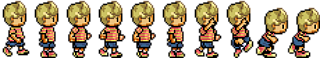
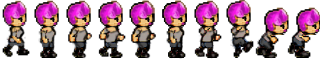
Sprites and animation

diff --git a/lib/akiba.js b/lib/akiba.js
@@ -1,31 +1,46 @@
 akiba = {
   animation: {
-    eight_way_std: {
-      makeList: function() {
-        return {
-          still:     { speed: 1, frames: [0]     },
-          right:     { speed: 3, frames: [1, 11] },
-          rightDown: { speed: 3, frames: [2, 12] },
-          down:      { speed: 3, frames: [3, 13] },
-          downLeft:  { speed: 3, frames: [4, 14] },
-          left:      { speed: 3, frames: [5, 15] },
-          leftUp:    { speed: 3, frames: [6, 16] },
-          up:        { speed: 3, frames: [7, 17] },
-          upRight:   { speed: 3, frames: [8, 18] }
-        }
+    animation_sets: {
+      eight_way_std: {
+        makeList: function() {
+          return {
+            still:     { speed: 1, frames: [0]     },
+            right:     { speed: 3, frames: [1, 11] },
+            rightDown: { speed: 3, frames: [2, 12] },
+            down:      { speed: 3, frames: [3, 13] },
+            downLeft:  { speed: 3, frames: [4, 14] },
+            left:      { speed: 3, frames: [5, 15] },
+            leftUp:    { speed: 3, frames: [6, 16] },
+            up:        { speed: 3, frames: [7, 17] },
+            upRight:   { speed: 3, frames: [8, 18] }
+          }
+        },
+        startIndex: 'still',
+        adjustToVelocity: true
       },
-      startIndex: 'still'
+
+      static_animation: {
+        makeList: function() {
+          return {
+            still:     { speed: 8, frames: [0,1] }
+          }
+        },
+        startIndex: 'still',
+        adjustToVelocity: false
+      }
     },
 
     makeAnimationList: function(obj, style, startIndex) {
-      obj.animList  = this[style].makeList();
-      obj.animIndex = startIndex || this[style].startIndex;
+      var adjustToVelocity = this.animation_sets[style].adjustToVelocity;
+      obj.animList  = this.animation_sets[style].makeList();
+      obj.animIndex = startIndex || this.animation_sets[style].startIndex;
 
       obj.updateAnimation = function() {
-        this.adjustAnimationToVelocity();
+        adjustToVelocity && this.adjustAnimationToVelocity();
 
-        if (frameCount % this.animList[this.animIndex].speed == 0)
-          this.frame = help.decideFrame(frameCount, this.animList[this.animIndex]);
+        if (the_game.frameCount % this.animList[this.animIndex].speed == 0) {
+          this.frame = help.decideFrame(the_game.frameCount, this.animList[this.animIndex]);
+        }
       }
 
       obj.adjustAnimationToVelocity = function() {

diff --git a/lib/game.js b/lib/game.js
@@ -1,5 +1,5 @@
 var maingame;
-var map, foe, yellow_dot, frameCount;
+var map, foe, yellow_dot;
 
 KEY_W = 87;
 KEY_A = 65;
@@ -37,6 +37,7 @@ function getImageResources(){
       ['player_sprite',        'images/walk.png'],
       ['map_spritesheet',      'images/map_pieces.png'],
       ['enemy_sprite',         'images/enemy_sprite.png'],
+      ['enemy_sprite1',        'images/enemy_sprite1.png'],
       ['enemy_dot',            'images/enemy_dot.png'],
       ['block_sprite',         'images/block_sprite.png'],
       ['background_tilesheet', 'images/bg1.png']
@@ -93,9 +94,9 @@ function getTileResources(){
       gapy:    0
     },
     {
-      id:      'enemy_tiles',  // Set a unique ID for future reference
-      image:   'enemy_sprite', // Use the 'player_sprite' image, as loaded above
-      tileh:   32,
+      id:      'enemy_1_set',  // Set a unique ID for future reference
+      image:   'enemy_sprite1', // Use the 'player_sprite' image, as loaded above
+      tileh:   64,
       tilew:   32,
       tilerow: 2,
       gapx:    0,
@@ -251,7 +252,7 @@ function main() {
         id:   'foe_a',
         game: the_game,
         x:    200,
-        y:    288
+        y:    256
       }
     });
     gbox.addObject(foe.getAkiObject());

diff --git a/lib/actors/platform_person.js b/lib/actors/platform_person.js
@@ -10,7 +10,7 @@ var PlatformPerson = Klass.extend({
   getAkiObject: function() {
     var obj = _(this.aki_attributes).extend(akiba.actors.top_down_object);
 
-    akiba.animation.makeAnimationList(obj, 'eight_way_std');
+    akiba.animation.makeAnimationList(obj, 'static_animation');
     // akiba.physics.setPhysics(obj);
 
     this.obj = obj;
@@ -22,7 +22,7 @@ var Foe = PlatformPerson.extend({
   init: function(options) {
     options.aki_attributes = _.extend(options.aki_attributes || {}, {
       group:   'enemies',
-      tileset: 'enemy_tiles',
+      tileset: 'enemy_1_set',
       hitByPlayer: function() {
         // $listener.inform(the_game.player_one, 'started battle', this);
 

diff --git a/lib/levels/map.js b/lib/levels/map.js
@@ -5,7 +5,9 @@ function addMap() {
     group: 'background',    // We use the 'backround' group we created above with our 'setGroups' call.
     initialize: function() {},
  
-    first: function() {},
+    first: function() {
+      the_game.frameCount++
+    },
  
     // The blit function is what happens during the game's draw cycle. Everything related to rendering and drawing goes here.
     blit: function() {

diff --git a/game/init.js b/game/init.js
@@ -2,6 +2,8 @@ var ALESTest = Klass.extend({
   init: function() {
     debug.log('Starting ALES Test game...');
 
+    this.frameCount = 0;
+
     // This initializes Akihabara with the default settings.
     // The title (which appears in the browser title bar) is the text we're passing to the function.
 
